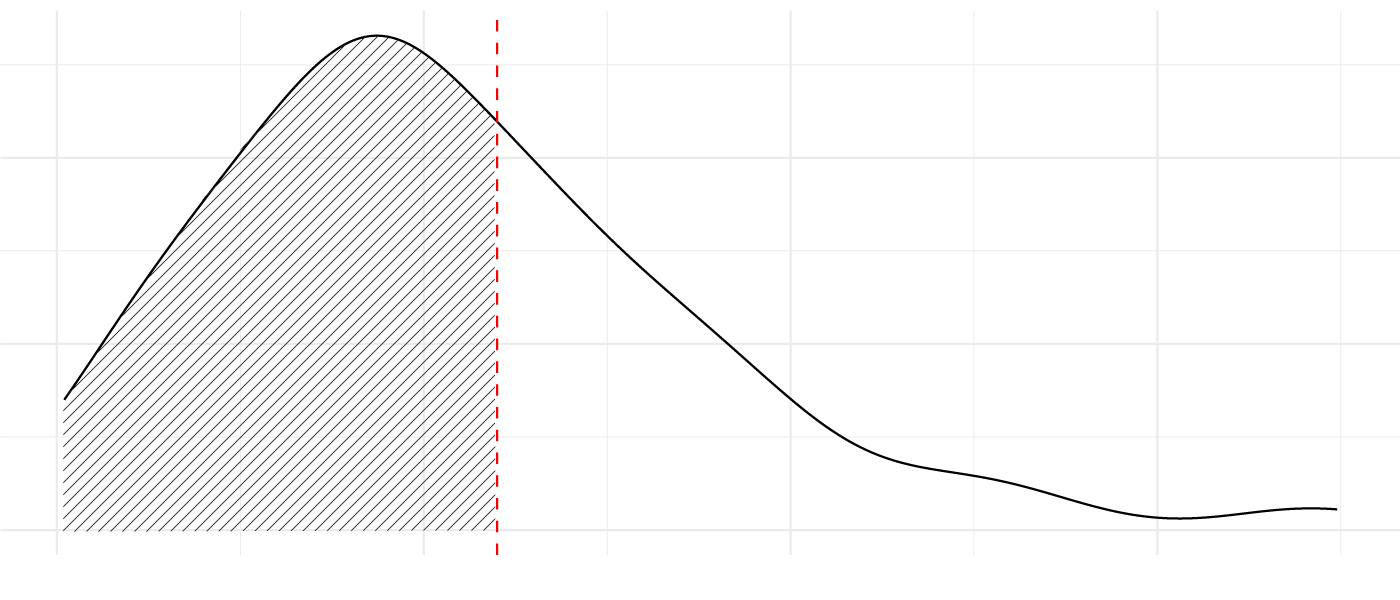
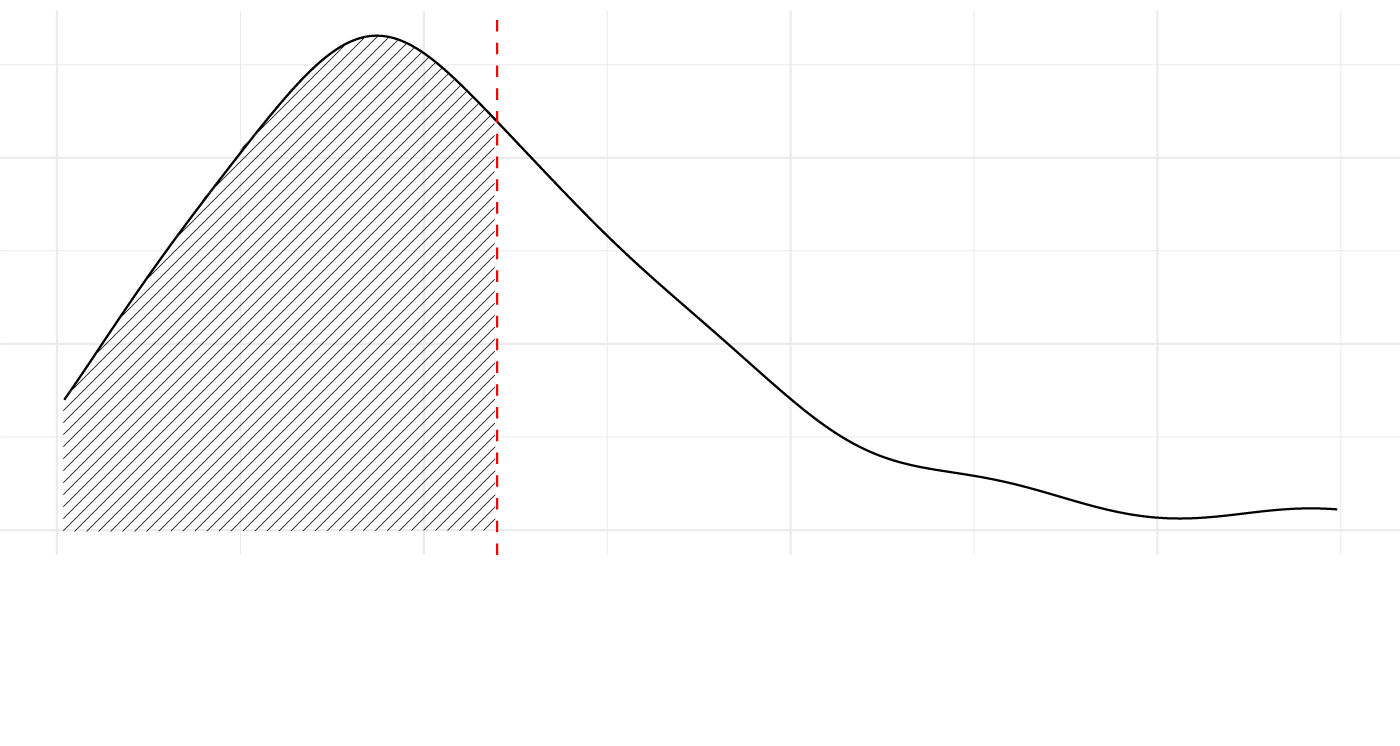
fixed the chart

diff --git a/docs/index.html b/docs/index.html
@@ -90,7 +90,7 @@
             <p class="chart-deck">Distribution of average pro bono hours per lawyer at law firms</p>
             <figure>
 
-<!-- Generated by ai2html v0.121.1 - 2024-09-25 18:29 -->
+<!-- Generated by ai2html v0.121.1 - 2024-09-25 18:41 -->
 <!-- ai file: 60hrs_pro_bono (1).ai -->
 <style media="screen,print">
 	#g-60hrs_pro_bono-_1_-box ,
@@ -221,78 +221,77 @@
 <div id="g-60hrs_pro_bono-_1_-box" class="ai2html">
 
 	<!-- Artboard: full-size -->
-	<div id="g-60hrs_pro_bono-_1_-full-size" class="g-artboard" style="width:700px; height:300.416103403622px;" data-aspect-ratio="2.33" data-min-width="700">
+	<div id="g-60hrs_pro_bono-_1_-full-size" class="g-artboard" style="width:700px; height:373.244640289937px;" data-aspect-ratio="1.875" data-min-width="700">
 <div style=""></div>
 		<img id="g-60hrs_pro_bono-_1_-full-size-img" class="g-60hrs_pro_bono-_1_-full-size-img g-aiImg" alt="" src="60hrs_pro_bono-_1_-full-size.png"/>
-		<div id="g-ai0-1" class="g-Layer_1 g-aiAbs" style="top:92.2054%;left:81.3482%;width:6.4286%;">
-			<p class="g-pstyle0">150 hours houurs</p>
+		<div id="g-ai0-1" class="g-Layer_1 g-aiAbs" style="top:74.2141%;left:81.3482%;width:6.4286%;">
+			<p class="g-pstyle0">150 hours</p>
 		</div>
-		<div id="g-ai0-2" class="g-Layer_1 g-aiAbs" style="top:92.8712%;left:3.575%;width:1.4286%;">
+		<div id="g-ai0-2" class="g-Layer_1 g-aiAbs" style="top:74.7499%;left:3.575%;width:1.4286%;">
 			<p class="g-pstyle0">0</p>
 		</div>
-		<div id="g-ai0-3" class="g-Layer_1 g-aiAbs" style="top:92.8712%;left:29.384%;width:1.7143%;">
+		<div id="g-ai0-3" class="g-Layer_1 g-aiAbs" style="top:74.7499%;left:29.384%;width:1.7143%;">
 			<p class="g-pstyle0">50</p>
 		</div>
-		<div id="g-ai0-4" class="g-Layer_1 g-aiAbs" style="top:92.8712%;left:34.6237%;width:1.7143%;">
+		<div id="g-ai0-4" class="g-Layer_1 g-aiAbs" style="top:74.7499%;left:34.6237%;width:1.7143%;">
 			<p class="g-pstyle1">60</p>
 		</div>
-		<div id="g-ai0-5" class="g-Layer_1 g-aiAbs" style="top:92.8712%;left:55.1664%;width:2.5714%;">
+		<div id="g-ai0-5" class="g-Layer_1 g-aiAbs" style="top:74.7499%;left:55.1664%;width:2.5714%;">
 			<p class="g-pstyle0">100</p>
 		</div>
 	</div>
 
 	<!-- Artboard: laptop -->
-	<div id="g-60hrs_pro_bono-_1_-laptop" class="g-artboard" style="width:490px; height:253.496959328051px;" data-aspect-ratio="1.933" data-min-width="490" data-max-width="699">
+	<div id="g-60hrs_pro_bono-_1_-laptop" class="g-artboard" style="width:490px; height:292.067202348804px;" data-aspect-ratio="1.678" data-min-width="490" data-max-width="699">
 <div style=""></div>
 		<img id="g-60hrs_pro_bono-_1_-laptop-img" class="g-60hrs_pro_bono-_1_-laptop-img g-aiImg" alt="" src="60hrs_pro_bono-_1_-laptop.png"/>
-		<div id="g-ai1-1" class="g-Layer_1 g-aiAbs" style="top:91.5198%;left:81.5511%;width:2.0408%;">
+		<div id="g-ai1-1" class="g-Layer_1 g-aiAbs" style="top:79.4338%;left:81.5511%;width:2.0408%;">
 			<p class="g-pstyle0">150</p>
 		</div>
-		<div id="g-ai1-2" class="g-Layer_1 g-aiAbs g-aiPointText" style="top:93.0126%;margin-top:-3.8px;left:84.1802%;width:36px;">
+		<div id="g-ai1-2" class="g-Layer_1 g-aiAbs g-aiPointText" style="top:80.7294%;margin-top:-3.8px;left:84.1802%;width:36px;">
 			<p class="g-pstyle1">hours</p>
 		</div>
-		<div id="g-ai1-3" class="g-Layer_1 g-aiAbs" style="top:91.9143%;left:3.5319%;width:0.6122%;">
+		<div id="g-ai1-3" class="g-Layer_1 g-aiAbs" style="top:79.7762%;left:3.5319%;width:0.6122%;">
 			<p class="g-pstyle0">0</p>
 		</div>
-		<div id="g-ai1-4" class="g-Layer_1 g-aiAbs" style="top:91.9143%;left:29.4511%;width:1.4286%;">
+		<div id="g-ai1-4" class="g-Layer_1 g-aiAbs" style="top:79.7762%;left:29.4511%;width:1.4286%;">
 			<p class="g-pstyle0">50</p>
 		</div>
-		<div id="g-ai1-5" class="g-Layer_1 g-aiAbs" style="top:91.9143%;left:34.6706%;width:1.4286%;">
+		<div id="g-ai1-5" class="g-Layer_1 g-aiAbs" style="top:79.7762%;left:34.6706%;width:1.4286%;">
 			<p class="g-pstyle2">60</p>
 		</div>
-		<div id="g-ai1-6" class="g-Layer_1 g-aiAbs" style="top:91.9143%;left:55.3136%;width:2.0408%;">
+		<div id="g-ai1-6" class="g-Layer_1 g-aiAbs" style="top:79.7762%;left:55.3136%;width:2.0408%;">
 			<p class="g-pstyle0">100</p>
 		</div>
 	</div>
 
 	<!-- Artboard: mobile -->
-	<div id="g-60hrs_pro_bono-_1_-mobile" class="g-artboard" style="max-width: 375px;max-height: 247px" data-aspect-ratio="1.517" data-min-width="0" data-max-width="489">
-<div style="padding: 0 0 65.9357% 0;"></div>
+	<div id="g-60hrs_pro_bono-_1_-mobile" class="g-artboard" style="max-width: 375px;max-height: 307px" data-aspect-ratio="1.223" data-min-width="0" data-max-width="489">
+<div style="padding: 0 0 81.7487% 0;"></div>
 		<img id="g-60hrs_pro_bono-_1_-mobile-img" class="g-60hrs_pro_bono-_1_-mobile-img g-aiImg" alt="" src="60hrs_pro_bono-_1_-mobile.png"/>
-		<div id="g-ai2-1" class="g-Layer_1 g-aiAbs" style="top:90.5933%;left:3.5873%;width:0.8%;">
+		<div id="g-ai2-1" class="g-Layer_1 g-aiAbs" style="top:73.0695%;left:3.5873%;width:0.8%;">
 			<p class="g-pstyle0">0</p>
 		</div>
-		<div id="g-ai2-2" class="g-Layer_1 g-aiAbs" style="top:90.5933%;left:29.3528%;width:1.8667%;">
+		<div id="g-ai2-2" class="g-Layer_1 g-aiAbs" style="top:73.0695%;left:29.3528%;width:1.8667%;">
 			<p class="g-pstyle0">50</p>
 		</div>
-		<div id="g-ai2-3" class="g-Layer_1 g-aiAbs" style="top:90.5933%;left:34.5925%;width:1.8667%;">
+		<div id="g-ai2-3" class="g-Layer_1 g-aiAbs" style="top:73.0695%;left:34.5925%;width:1.8667%;">
 			<p class="g-pstyle1">60</p>
 		</div>
-		<div id="g-ai2-4" class="g-Layer_1 g-aiAbs" style="top:90.5933%;left:55.1174%;width:2.6667%;">
+		<div id="g-ai2-4" class="g-Layer_1 g-aiAbs" style="top:73.0695%;left:55.1174%;width:2.6667%;">
 			<p class="g-pstyle2">100</p>
 		</div>
-		<div id="g-ai2-5" class="g-Layer_1 g-aiAbs" style="top:90.5933%;left:80.9732%;width:2.6667%;">
+		<div id="g-ai2-5" class="g-Layer_1 g-aiAbs" style="top:73.0695%;left:80.9732%;width:2.6667%;">
 			<p class="g-pstyle2">150</p>
 		</div>
-		<div id="g-ai2-6" class="g-Layer_1 g-aiAbs g-aiPointText" style="top:92.4714%;margin-top:-3.6px;left:84.2614%;width:35px;">
+		<div id="g-ai2-6" class="g-Layer_1 g-aiAbs g-aiPointText" style="top:74.5842%;margin-top:-3.6px;left:84.2614%;width:35px;">
 			<p class="g-pstyle3">hours</p>
 		</div>
 	</div>
 
 </div>
 
-<!-- End ai2html - 2024-09-25 18:29 -->
-
+<!-- End ai2html - 2024-09-25 18:41 -->
 
             </figure>
             <figcaption>Source: American Lawyer 2024 Pro Bono Scoreboard</figcaption>

diff --git a/docs/ai2html-output/60hrs_pro_bono (1).html b/docs/ai2html-output/60hrs_pro_bono (1).html
@@ -1,5 +1,5 @@
 
-<!-- Generated by ai2html v0.121.1 - 2024-09-25 18:29 -->
+<!-- Generated by ai2html v0.121.1 - 2024-09-25 18:41 -->
 <!-- ai file: 60hrs_pro_bono (1).ai -->
 <style media="screen,print">
 	#g-60hrs_pro_bono-_1_-box ,
@@ -130,74 +130,74 @@
 <div id="g-60hrs_pro_bono-_1_-box" class="ai2html">
 
 	<!-- Artboard: full-size -->
-	<div id="g-60hrs_pro_bono-_1_-full-size" class="g-artboard" style="width:700px; height:300.416103403622px;" data-aspect-ratio="2.33" data-min-width="700">
+	<div id="g-60hrs_pro_bono-_1_-full-size" class="g-artboard" style="width:700px; height:373.244640289937px;" data-aspect-ratio="1.875" data-min-width="700">
 <div style=""></div>
 		<img id="g-60hrs_pro_bono-_1_-full-size-img" class="g-60hrs_pro_bono-_1_-full-size-img g-aiImg" alt="" src="60hrs_pro_bono-_1_-full-size.png"/>
-		<div id="g-ai0-1" class="g-Layer_1 g-aiAbs" style="top:92.2054%;left:81.3482%;width:6.4286%;">
-			<p class="g-pstyle0">150 hours houurs</p>
+		<div id="g-ai0-1" class="g-Layer_1 g-aiAbs" style="top:74.2141%;left:81.3482%;width:6.4286%;">
+			<p class="g-pstyle0">150 hours</p>
 		</div>
-		<div id="g-ai0-2" class="g-Layer_1 g-aiAbs" style="top:92.8712%;left:3.575%;width:1.4286%;">
+		<div id="g-ai0-2" class="g-Layer_1 g-aiAbs" style="top:74.7499%;left:3.575%;width:1.4286%;">
 			<p class="g-pstyle0">0</p>
 		</div>
-		<div id="g-ai0-3" class="g-Layer_1 g-aiAbs" style="top:92.8712%;left:29.384%;width:1.7143%;">
+		<div id="g-ai0-3" class="g-Layer_1 g-aiAbs" style="top:74.7499%;left:29.384%;width:1.7143%;">
 			<p class="g-pstyle0">50</p>
 		</div>
-		<div id="g-ai0-4" class="g-Layer_1 g-aiAbs" style="top:92.8712%;left:34.6237%;width:1.7143%;">
+		<div id="g-ai0-4" class="g-Layer_1 g-aiAbs" style="top:74.7499%;left:34.6237%;width:1.7143%;">
 			<p class="g-pstyle1">60</p>
 		</div>
-		<div id="g-ai0-5" class="g-Layer_1 g-aiAbs" style="top:92.8712%;left:55.1664%;width:2.5714%;">
+		<div id="g-ai0-5" class="g-Layer_1 g-aiAbs" style="top:74.7499%;left:55.1664%;width:2.5714%;">
 			<p class="g-pstyle0">100</p>
 		</div>
 	</div>
 
 	<!-- Artboard: laptop -->
-	<div id="g-60hrs_pro_bono-_1_-laptop" class="g-artboard" style="width:490px; height:253.496959328051px;" data-aspect-ratio="1.933" data-min-width="490" data-max-width="699">
+	<div id="g-60hrs_pro_bono-_1_-laptop" class="g-artboard" style="width:490px; height:292.067202348804px;" data-aspect-ratio="1.678" data-min-width="490" data-max-width="699">
 <div style=""></div>
 		<img id="g-60hrs_pro_bono-_1_-laptop-img" class="g-60hrs_pro_bono-_1_-laptop-img g-aiImg" alt="" src="60hrs_pro_bono-_1_-laptop.png"/>
-		<div id="g-ai1-1" class="g-Layer_1 g-aiAbs" style="top:91.5198%;left:81.5511%;width:2.0408%;">
+		<div id="g-ai1-1" class="g-Layer_1 g-aiAbs" style="top:79.4338%;left:81.5511%;width:2.0408%;">
 			<p class="g-pstyle0">150</p>
 		</div>
-		<div id="g-ai1-2" class="g-Layer_1 g-aiAbs g-aiPointText" style="top:93.0126%;margin-top:-3.8px;left:84.1802%;width:36px;">
+		<div id="g-ai1-2" class="g-Layer_1 g-aiAbs g-aiPointText" style="top:80.7294%;margin-top:-3.8px;left:84.1802%;width:36px;">
 			<p class="g-pstyle1">hours</p>
 		</div>
-		<div id="g-ai1-3" class="g-Layer_1 g-aiAbs" style="top:91.9143%;left:3.5319%;width:0.6122%;">
+		<div id="g-ai1-3" class="g-Layer_1 g-aiAbs" style="top:79.7762%;left:3.5319%;width:0.6122%;">
 			<p class="g-pstyle0">0</p>
 		</div>
-		<div id="g-ai1-4" class="g-Layer_1 g-aiAbs" style="top:91.9143%;left:29.4511%;width:1.4286%;">
+		<div id="g-ai1-4" class="g-Layer_1 g-aiAbs" style="top:79.7762%;left:29.4511%;width:1.4286%;">
 			<p class="g-pstyle0">50</p>
 		</div>
-		<div id="g-ai1-5" class="g-Layer_1 g-aiAbs" style="top:91.9143%;left:34.6706%;width:1.4286%;">
+		<div id="g-ai1-5" class="g-Layer_1 g-aiAbs" style="top:79.7762%;left:34.6706%;width:1.4286%;">
 			<p class="g-pstyle2">60</p>
 		</div>
-		<div id="g-ai1-6" class="g-Layer_1 g-aiAbs" style="top:91.9143%;left:55.3136%;width:2.0408%;">
+		<div id="g-ai1-6" class="g-Layer_1 g-aiAbs" style="top:79.7762%;left:55.3136%;width:2.0408%;">
 			<p class="g-pstyle0">100</p>
 		</div>
 	</div>
 
 	<!-- Artboard: mobile -->
-	<div id="g-60hrs_pro_bono-_1_-mobile" class="g-artboard" style="max-width: 375px;max-height: 247px" data-aspect-ratio="1.517" data-min-width="0" data-max-width="489">
-<div style="padding: 0 0 65.9357% 0;"></div>
+	<div id="g-60hrs_pro_bono-_1_-mobile" class="g-artboard" style="max-width: 375px;max-height: 307px" data-aspect-ratio="1.223" data-min-width="0" data-max-width="489">
+<div style="padding: 0 0 81.7487% 0;"></div>
 		<img id="g-60hrs_pro_bono-_1_-mobile-img" class="g-60hrs_pro_bono-_1_-mobile-img g-aiImg" alt="" src="60hrs_pro_bono-_1_-mobile.png"/>
-		<div id="g-ai2-1" class="g-Layer_1 g-aiAbs" style="top:90.5933%;left:3.5873%;width:0.8%;">
+		<div id="g-ai2-1" class="g-Layer_1 g-aiAbs" style="top:73.0695%;left:3.5873%;width:0.8%;">
 			<p class="g-pstyle0">0</p>
 		</div>
-		<div id="g-ai2-2" class="g-Layer_1 g-aiAbs" style="top:90.5933%;left:29.3528%;width:1.8667%;">
+		<div id="g-ai2-2" class="g-Layer_1 g-aiAbs" style="top:73.0695%;left:29.3528%;width:1.8667%;">
 			<p class="g-pstyle0">50</p>
 		</div>
-		<div id="g-ai2-3" class="g-Layer_1 g-aiAbs" style="top:90.5933%;left:34.5925%;width:1.8667%;">
+		<div id="g-ai2-3" class="g-Layer_1 g-aiAbs" style="top:73.0695%;left:34.5925%;width:1.8667%;">
 			<p class="g-pstyle1">60</p>
 		</div>
-		<div id="g-ai2-4" class="g-Layer_1 g-aiAbs" style="top:90.5933%;left:55.1174%;width:2.6667%;">
+		<div id="g-ai2-4" class="g-Layer_1 g-aiAbs" style="top:73.0695%;left:55.1174%;width:2.6667%;">
 			<p class="g-pstyle2">100</p>
 		</div>
-		<div id="g-ai2-5" class="g-Layer_1 g-aiAbs" style="top:90.5933%;left:80.9732%;width:2.6667%;">
+		<div id="g-ai2-5" class="g-Layer_1 g-aiAbs" style="top:73.0695%;left:80.9732%;width:2.6667%;">
 			<p class="g-pstyle2">150</p>
 		</div>
-		<div id="g-ai2-6" class="g-Layer_1 g-aiAbs g-aiPointText" style="top:92.4714%;margin-top:-3.6px;left:84.2614%;width:35px;">
+		<div id="g-ai2-6" class="g-Layer_1 g-aiAbs g-aiPointText" style="top:74.5842%;margin-top:-3.6px;left:84.2614%;width:35px;">
 			<p class="g-pstyle3">hours</p>
 		</div>
 	</div>
 
 </div>
 
-<!-- End ai2html - 2024-09-25 18:29 -->
+<!-- End ai2html - 2024-09-25 18:41 -->

diff --git a/docs/style.css b/docs/style.css
@@ -55,8 +55,7 @@ h1 {
 
 iframe, img {
     max-width: 100%;
-    padding-top: 1.5em;
-    padding-bottom: 1.5em;
+
     margin:auto;
 }
 
@@ -127,7 +126,6 @@ code {
 
 figure {
     margin: 0;
-    padding-bottom: 1.2em;
 }
 
 figcaption {
